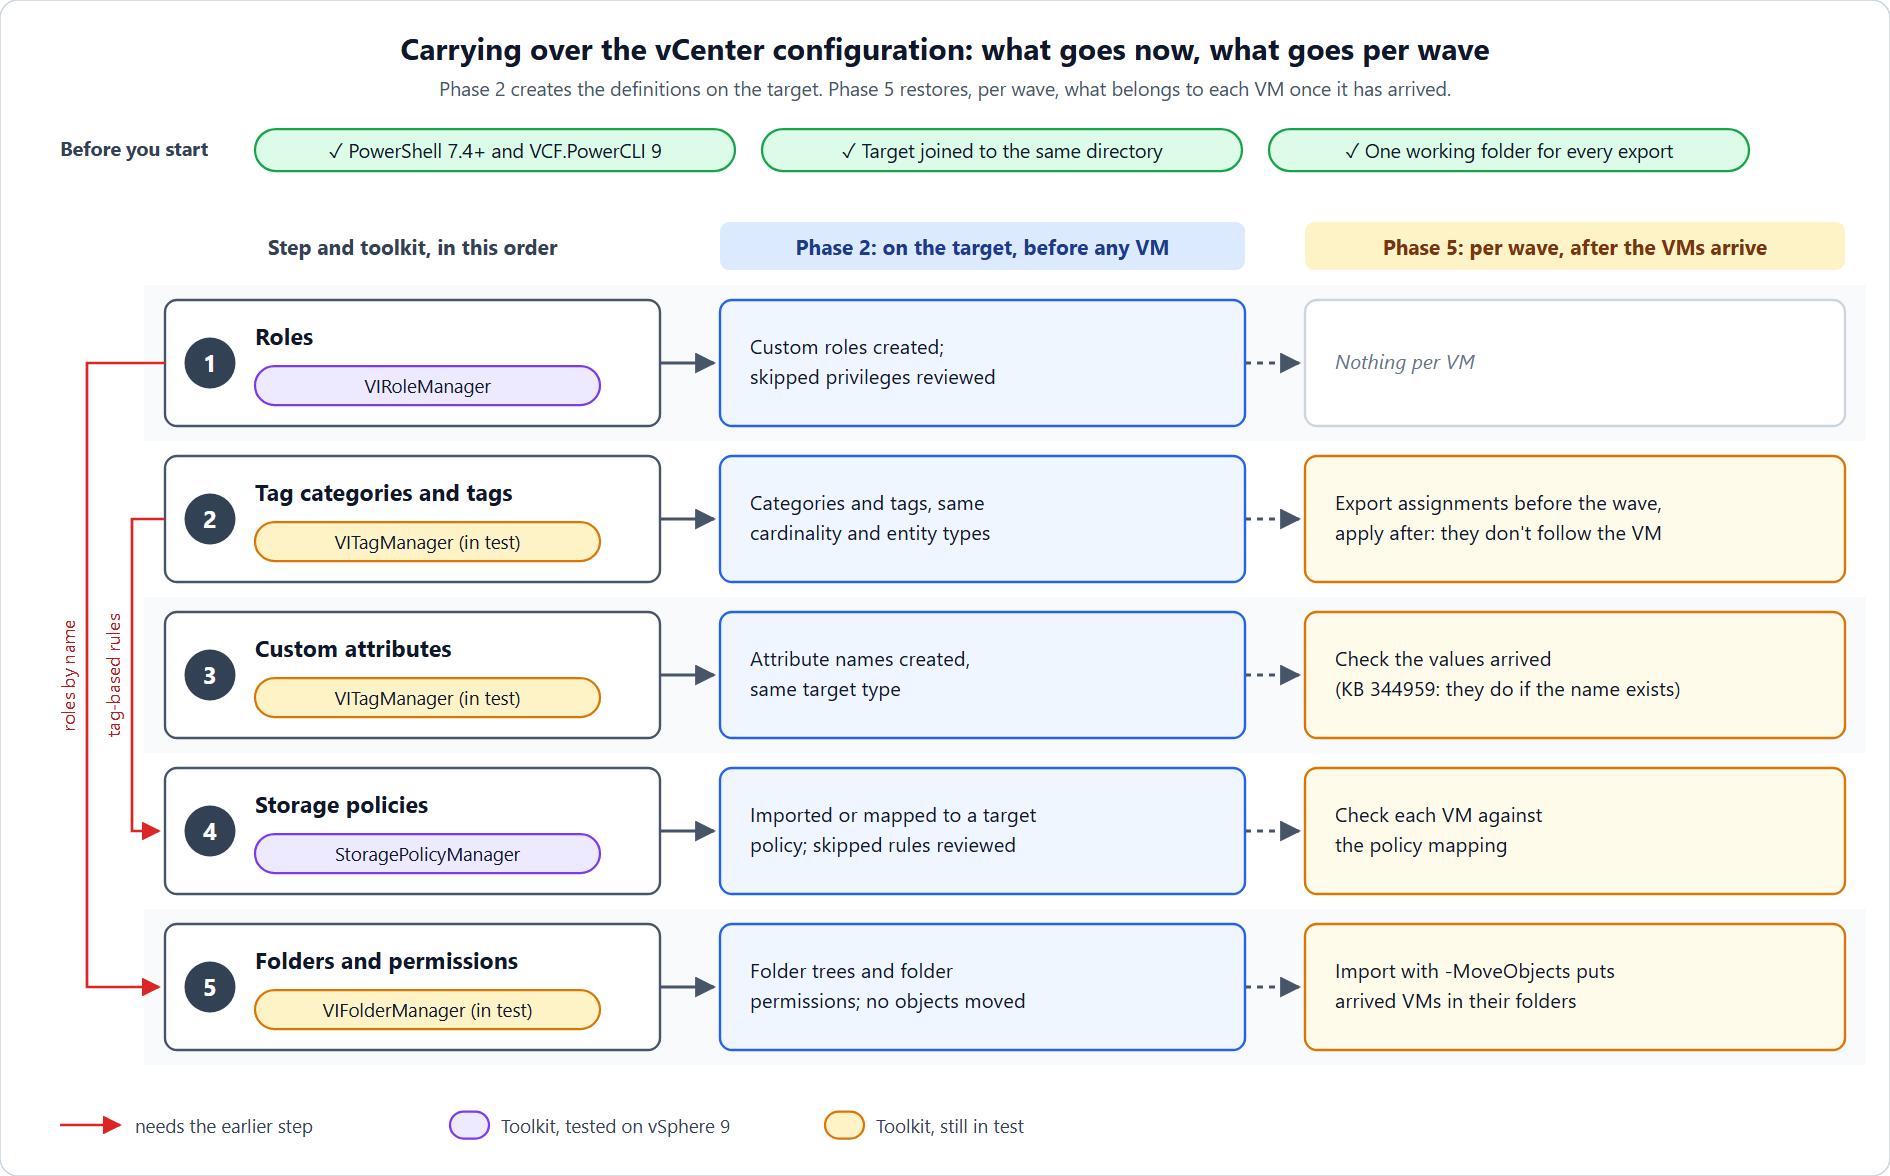
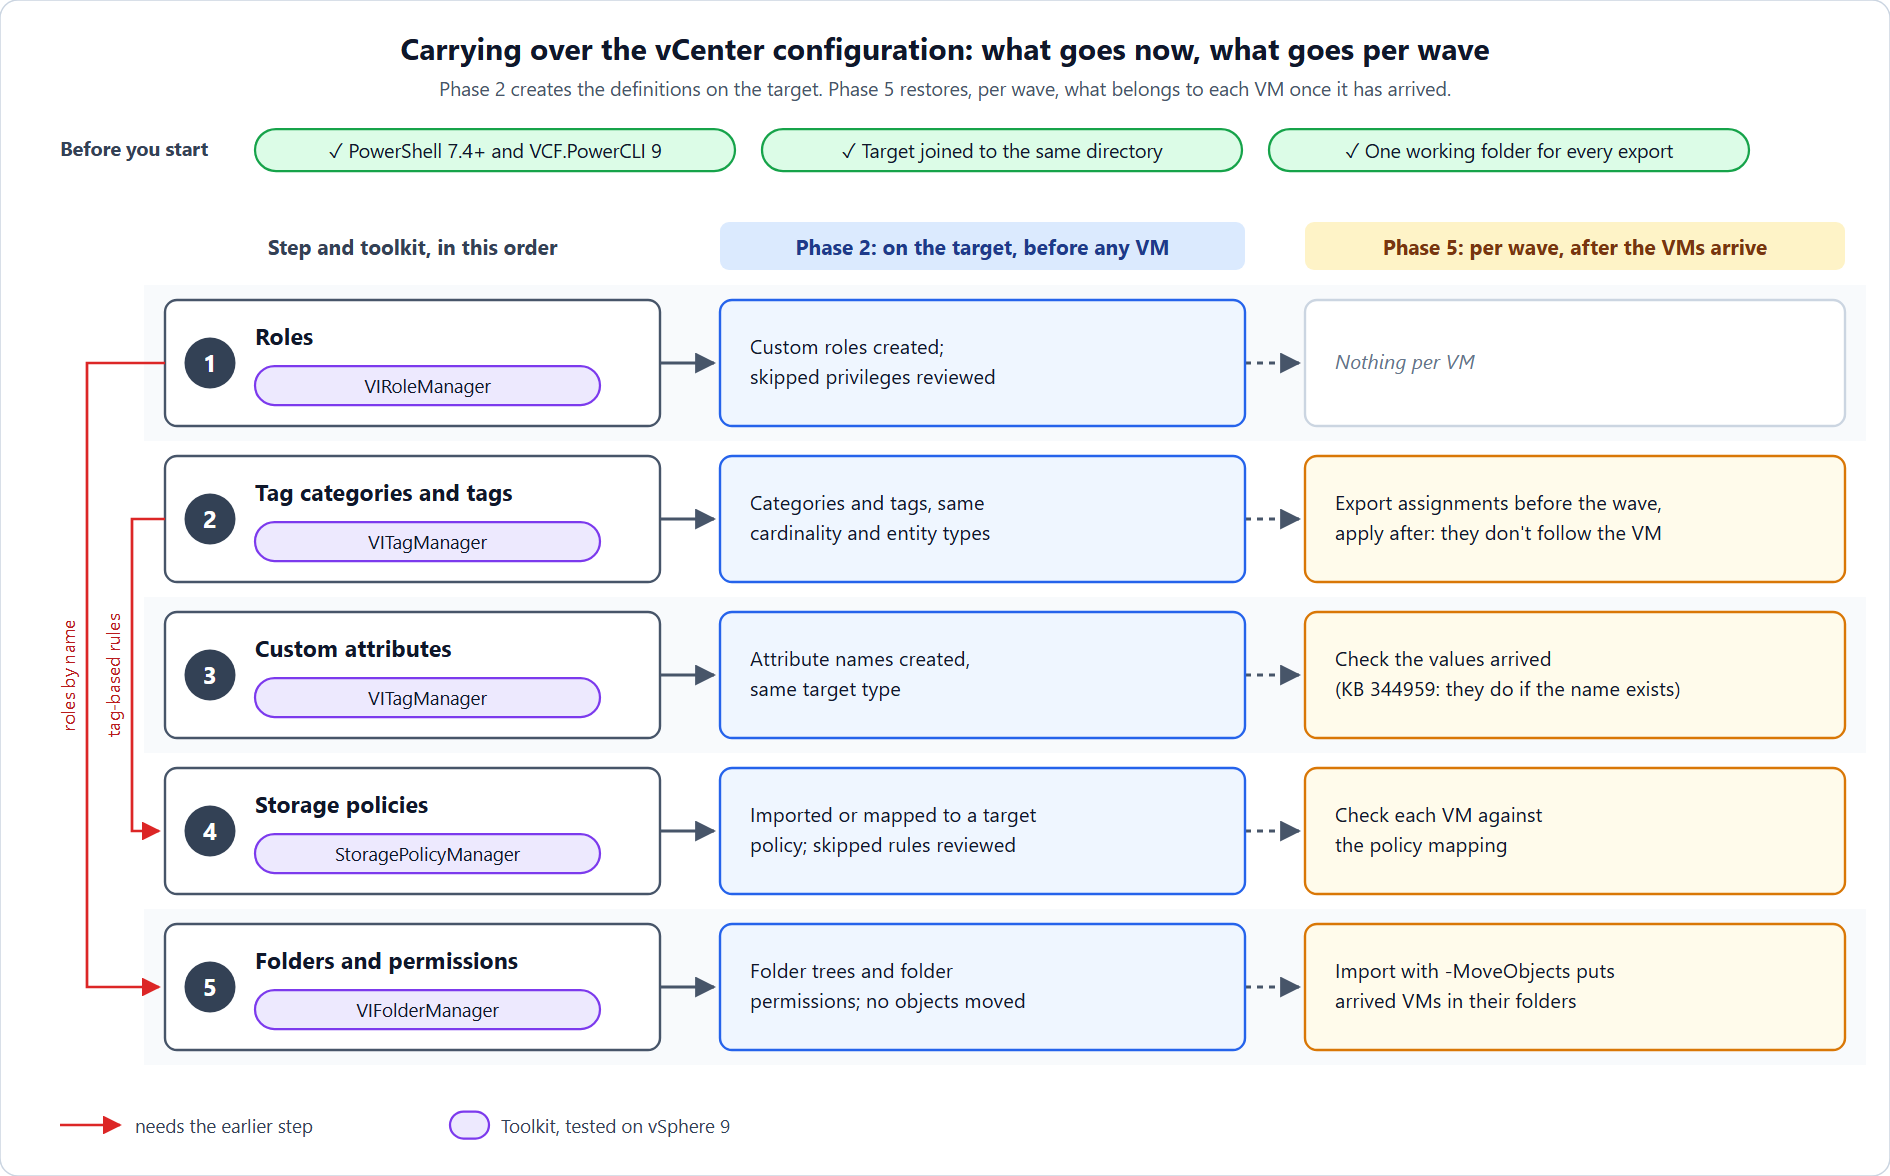
Review #145: toolkits lab-tested, why the toolkits, getting them (#144)
- VITagManager and VIFolderManager lab-tested instead of "still in test"
  in docs/29, docs/30 and both diagrams (legend entries for "still in
  test" and "in development" removed, PNGs re-rendered); VIRoleManager
  and StoragePolicyManager also tested from vCenter 8.0 U3; stale
  "8.x not tested" line fixed
- docs/29 Toolkits: why use them instead of the vSphere Client or a few
  PowerCLI lines, and how to get them onto a jump host (git, ZIP with
  Unblock-File, offline); docs/30 lists VITagManager and links there

diff --git a/docs/29-side-by-side-migration.md b/docs/29-side-by-side-migration.md
@@ -288,7 +288,7 @@ Identity Broker, see
 
 ## The phases
 
-![Side-by-side migration in seven phases. 0, decide the route: the five questions, with baseline exports of the source; check: route chosen and written down. 1, build the target: new VCF or VVF 9 environment, HCX on both sides if chosen; check: target healthy, licensed, reachable. 2, carry over vCenter configuration: roles, tags, storage policies, folders and folder permissions, with VIRoleManager, VITagManager in test, StoragePolicyManager and VIFolderManager in test; check: everything exists on the target with the same names. 3, carry over the networks and the firewall: VDS port groups, NSX segments and NSX distributed firewall policies, with VDSPortGroupManager, nsx-segment-migration and Jeroen Buren's NSX DFW toolkit; check: every source network has a mapped target and the DFW comparison is clean. 4, prove the path: ports 8000, 902 and 443, HCX diagnostics, one test VM there and back; check: test VM runs with network, policy, tags and folder. 5, migrate in waves: HCX Mobility Groups or Import VMs, then VIFolderManager to restore folders, VITagManager for the vSphere tags and attribute values, and the NSX tags on the VMs; check: each wave verified by the application owner. 6, cut over and clean up: gateways to the target, remove network extensions, retire the source; check: nothing left running on the source.](images/side-by-side-migration/phases.png)
+![Side-by-side migration in seven phases. 0, decide the route: the five questions, with baseline exports of the source; check: route chosen and written down. 1, build the target: new VCF or VVF 9 environment, HCX on both sides if chosen; check: target healthy, licensed, reachable. 2, carry over vCenter configuration: roles, tags, storage policies, folders and folder permissions, with VIRoleManager, VITagManager, StoragePolicyManager and VIFolderManager; check: everything exists on the target with the same names. 3, carry over the networks and the firewall: VDS port groups, NSX segments and NSX distributed firewall policies, with VDSPortGroupManager, nsx-segment-migration and Jeroen Buren's NSX DFW toolkit; check: every source network has a mapped target and the DFW comparison is clean. 4, prove the path: ports 8000, 902 and 443, HCX diagnostics, one test VM there and back; check: test VM runs with network, policy, tags and folder. 5, migrate in waves: HCX Mobility Groups or Import VMs, then VIFolderManager to restore folders, VITagManager for the vSphere tags and attribute values, and the NSX tags on the VMs; check: each wave verified by the application owner. 6, cut over and clean up: gateways to the target, remove network extensions, retire the source; check: nothing left running on the source.](images/side-by-side-migration/phases.png)
 
 Each phase below has three parts: what it's for, what you do, and the
 check that closes it. Don't start a phase before the previous check
@@ -330,7 +330,7 @@ it:
 2. **Tag categories and tags.** Tag-based storage policy rules refer to
    them, and the tag assignments you re-apply in phase 5 need them
    ([KB 344959](https://knowledge.broadcom.com/external/article/344959)).
-   VITagManager carries them over (still in test, so dry run first).
+   VITagManager carries them over (lab-tested; dry run first).
 3. **Custom attributes.** Same KB, same reason; VITagManager takes the
    attribute names along in the same run.
 4. **Storage policies** (StoragePolicyManager). Tag-based rules are
@@ -457,6 +457,61 @@ PowerShell toolkits for the configuration work in phases 0, 2, 3 and 5.
 They export to files you can read and keep, and import into the target
 vCenter or NSX Manager.
 
+**Why the toolkits, and not the vSphere Client or a few PowerCLI lines.**
+You can rebuild all of this by hand. The toolkits exist because a
+side-by-side migration has traps that a quick copy misses, and because
+you want proof of what you moved:
+
+- **A record of the source.** Every export is a file you can read, keep
+  and compare. It's your baseline in phase 0, and the record of what the
+  old environment looked like after it's gone.
+- **See before you change.** Where a toolkit has a dry run (`-DryRun`, or
+  `-WhatIf` for the NSX segments), it lists what it would create, move or
+  set, and changes nothing.
+- **Safe to run again.** What already exists on the target is skipped or
+  reused, so after a partial run or a fix you just run it again. The
+  vCenter toolkits don't delete anything on an import.
+- **Version differences reported, not hidden.** Privileges that a newer
+  vCenter no longer has are listed and skipped (VIRoleManager: four of
+  them from 8.0 U3 to 9.1.1); capabilities and tags that a storage policy
+  needs but the target lacks are reported (StoragePolicyManager); uplink
+  names that differ on a VCF-built switch are mapped (VDSPortGroupManager
+  `-UplinkMap`).
+- **What vCenter manages itself stays out.** System roles, the folders
+  that vCenter, the Supervisor and NSX create (`vCLS`, `Namespaces`,
+  `NSX Managed Folders`, `Virtual Private Clouds`), and the custom
+  attributes that vCenter and other products keep for themselves are
+  skipped.
+- **Per wave, not just once.** Tag assignments and folder placement don't
+  travel with a VM. VITagManager and VIFolderManager restore them after
+  each wave; VMs that haven't arrived yet are listed and skipped, so the
+  same export serves every wave.
+- **Tested on this route.** The vCenter toolkits were run in a lab from a
+  vCenter 8.0 U3 source and from VCF 9.0.2 into VCF 9.1.1 (2026-11-16),
+  and what that showed is written down on the pages that use them.
+
+**Getting them.** Each toolkit is a public GitHub repository, linked in
+the table below. Put them on the workstation or jump host you run the
+migration from:
+
+- **With git:** `git clone https://github.com/pauldiee/<toolkit>.git`, for
+  example `git clone https://github.com/pauldiee/VITagManager.git`.
+  `git pull` in the folder fetches a newer version later.
+- **Without git:** on the repository page, **Code** > **Download ZIP**,
+  and extract it. Windows marks files downloaded from the internet, and
+  under the `RemoteSigned` execution policy PowerShell won't run such
+  unsigned scripts; unblock the folder once with
+  `Get-ChildItem -Recurse | Unblock-File`
+  ([about_Execution_Policies](https://learn.microsoft.com/powershell/module/microsoft.powershell.core/about/about_execution_policies)).
+- **Jump host without internet:** download on another machine and copy
+  the folders across, together with PowerShell 7 and VCF.PowerCLI
+  ([planning guide, Jump Host PowerShell](https://vcf-planning.hollebollevsan.nl/docs/42-jump-host-powershell/)).
+
+Start each toolkit from its own folder in `pwsh`. Its README lists the
+parameters; the vCenter toolkits print their version when they start. Use one
+working folder for all exports
+([docs/30, Before you start](30-carry-over-vcenter-configuration.md#before-you-start)).
+
 **Who made them.** VIRoleManager, VITagManager, StoragePolicyManager,
 VIFolderManager, VDSPortGroupManager and nsx-segment-migration are
 written by Paul van Dieen, the author of this guide
@@ -475,18 +530,18 @@ toolkit is written by Jeroen Buren
 
 | Toolkit | Moves | Status |
 | --- | --- | --- |
-| [VIRoleManager](https://github.com/pauldiee/VIRoleManager) | vCenter roles and their privileges | Tested against vSphere 9 |
-| [VITagManager](https://github.com/pauldiee/VITagManager) | Tag categories and tags, custom attributes, and per wave the tag assignments and attribute values on the VMs | **Still in test.** Lab-tested from vCenter 8.0 U3 and VCF 9.0.2 into 9.1.1. Run with `-DryRun` first |
-| [StoragePolicyManager](https://github.com/pauldiee/StoragePolicyManager) | VM storage policies (SPBM), incl. tag-based rules | Tested against vSphere 9 |
-| [VIFolderManager](https://github.com/pauldiee/VIFolderManager) | Folder trees (VM, host, datastore, network), which objects sit where, and permissions on folders | **Still in test.** Lab-tested on VCF 9.1.1 and 9.0.2. Run with `-DryRun` first |
+| [VIRoleManager](https://github.com/pauldiee/VIRoleManager) | vCenter roles and their privileges | Tested against vSphere 9, and from vCenter 8.0 U3 into 9.1.1 (lab) |
+| [VITagManager](https://github.com/pauldiee/VITagManager) | Tag categories and tags, custom attributes, and per wave the tag assignments and attribute values on the VMs | Lab-tested from vCenter 8.0 U3 and VCF 9.0.2 into 9.1.1. Run with `-DryRun` first |
+| [StoragePolicyManager](https://github.com/pauldiee/StoragePolicyManager) | VM storage policies (SPBM), incl. tag-based rules | Tested against vSphere 9, and from vCenter 8.0 U3 into 9.1.1 (lab) |
+| [VIFolderManager](https://github.com/pauldiee/VIFolderManager) | Folder trees (VM, host, datastore, network), which objects sit where, and permissions on folders | Lab-tested on VCF 9.1.1 and 9.0.2, and from vCenter 8.0 U3 into 9.1.1. Run with `-DryRun` first |
 | [VDSPortGroupManager](https://github.com/pauldiee/VDSPortGroupManager) | VDS port groups, also onto a switch with other uplink names (`-UplinkMap`, 1.2.0+) | Lab-tested on vCenter 9.1.1 and 9.0.2 |
 | [nsx-segment-migration](https://github.com/pauldiee/nsx-segment-migration) | NSX segments, segment profiles and their bindings | NSX 4.x and 9.x |
 | [NSX DFW migration toolkit](https://github.com/jeroenburen/Repository/tree/main/scripts/networking/nsx-migration-toolkit), by Jeroen Buren | NSX distributed firewall: IP sets, services and service groups, security groups, policies and rules, VM tags. Renames NSX-V-era IDs to their names, rolls an import back, and compares source and target | Written for an NSX 4 to NSX 9 migration; no Gateway Firewall. See his posts: [part 1](https://configmgr.nl/powershell/migrating-nsx-distributed-firewall-policies-the-right-way-a-powershell-toolkit/), [part 2](https://configmgr.nl/powershell/migrating-nsx-distributed-firewall-policies-part-2/), [part 3](https://configmgr.nl/powershell/migrating-nsx-distributed-firewall-policies-part-3/) |
 
 The vCenter toolkits have been tested with vSphere 9 vCenters on both
-sides. Exporting from an **older source vCenter** (7.x or 8.x) hasn't been
-tested yet. Check the export file before you import it, and import with a
-dry run where the toolkit has one.
+sides, and from a **vCenter 8.0 U3 source** into 9.1.1 (lab, 2026-11-16).
+A **7.x source** hasn't been tested. Check the export file before you
+import it, and import with a dry run where the toolkit has one.
 
 ---
 

diff --git a/docs/30-carry-over-vcenter-configuration.md b/docs/30-carry-over-vcenter-configuration.md
@@ -51,9 +51,12 @@ toolkits' own documentation and code, and PowerCLI 13.5.1 (VCF.PowerCLI
 - VCF.PowerCLI 9.0 or later:
   `Install-Module -Name VCF.PowerCLI -Scope CurrentUser`.
 - The toolkits: [VIRoleManager](https://github.com/pauldiee/VIRoleManager),
+  [VITagManager](https://github.com/pauldiee/VITagManager),
   [StoragePolicyManager](https://github.com/pauldiee/StoragePolicyManager)
   and [VIFolderManager](https://github.com/pauldiee/VIFolderManager).
-  Download each as a zip or clone it.
+  Download each as a zip or clone it; how, and what to do on a jump host
+  without internet:
+  [docs/29, Getting them](29-side-by-side-migration.md#toolkits).
 
 **Accounts.** An administrator on both vCenters. The toolkits ask for
 credentials once and save them as `<vCenter>.cred` next to the script. On
@@ -87,8 +90,8 @@ StoragePolicyManager and VIFolderManager are written by Paul van Dieen, the auth
 vCenters on both sides, and from a **vCenter 8.0 U3 source** into a
 vCenter 9.1.1 target (lab, 2026-11-16, with a test set per toolkit: roles,
 tag and vSAN policies, folders with permissions, tag categories and
-custom attributes). VIFolderManager and VITagManager are still in test,
-and the vCenter 8 test had no hosts, so no VMs were moved into folders.
+custom attributes). The vCenter 8 test had no hosts, so no VMs were
+moved into folders there.
 VITagManager's VM part (assignments and values per wave, VMs with the
 same name) was tested from a VCF 9.0.2 source into 9.1.1 (lab,
 2026-11-16). A **7.x source** hasn't been tested. Open each export file
@@ -113,12 +116,12 @@ toolkit has a dry run, use it first.
 
 ## The order, and why
 
-![Carrying over the vCenter configuration in five steps. Before you start: PowerShell 7.4 or later with VCF.PowerCLI 9, the target joined to the same directory, one working folder. Step 1, roles with VIRoleManager: in phase 2 custom roles created and skipped privileges reviewed; nothing per VM. Step 2, tag categories and tags with VITagManager, still in test: in phase 2 categories and tags with the same cardinality and entity types; in phase 5 export assignments before each wave and apply them after, because they don't follow the VM. Step 3, custom attributes, same toolkit: in phase 2 attribute names with the same target type; in phase 5 check that the values arrived. Step 4, storage policies with StoragePolicyManager: in phase 2 imported or mapped, skipped rules reviewed; in phase 5 check each VM against the policy mapping. Step 5, folders and permissions with VIFolderManager, still in test: in phase 2 folder trees and folder permissions without moving objects; in phase 5 an import with -MoveObjects puts arrived VMs in their folders. Folder permissions need the roles from step 1; tag-based storage policy rules need the tags from step 2.](images/vcenter-config/order.png)
+![Carrying over the vCenter configuration in five steps. Before you start: PowerShell 7.4 or later with VCF.PowerCLI 9, the target joined to the same directory, one working folder. Step 1, roles with VIRoleManager: in phase 2 custom roles created and skipped privileges reviewed; nothing per VM. Step 2, tag categories and tags with VITagManager: in phase 2 categories and tags with the same cardinality and entity types; in phase 5 export assignments before each wave and apply them after, because they don't follow the VM. Step 3, custom attributes, same toolkit: in phase 2 attribute names with the same target type; in phase 5 check that the values arrived. Step 4, storage policies with StoragePolicyManager: in phase 2 imported or mapped, skipped rules reviewed; in phase 5 check each VM against the policy mapping. Step 5, folders and permissions with VIFolderManager: in phase 2 folder trees and folder permissions without moving objects; in phase 5 an import with -MoveObjects puts arrived VMs in their folders. Folder permissions need the roles from step 1; tag-based storage policy rules need the tags from step 2.](images/vcenter-config/order.png)
 
 | Step | What | Tool | Needs first |
 | --- | --- | --- | --- |
 | 1 | Roles | VIRoleManager | – |
-| 2 | Tag categories and tags | VITagManager, still in test | – |
+| 2 | Tag categories and tags | VITagManager | – |
 | 3 | Custom attributes | VITagManager, same run | – |
 | 4 | Storage policies | StoragePolicyManager | Step 2, for tag-based rules |
 | 5 | Folders and permissions | VIFolderManager, PowerCLI | Step 1 and the target's directory |
@@ -215,8 +218,8 @@ privilege whether that's acceptable.
 
 ## Step 2: tag categories and tags
 
-**Toolkit:** [VITagManager](https://github.com/pauldiee/VITagManager) (still in test, so the dry run is not
-optional). It handles step 3 as well. Without it: PowerCLI, at the end of
+**Toolkit:** [VITagManager](https://github.com/pauldiee/VITagManager) (lab-tested; run the dry run
+first anyway). It handles step 3 as well. Without it: PowerCLI, at the end of
 this step.
 
 There are two parts to tags, and they move at different times:
@@ -426,8 +429,8 @@ migrated VM against it.
 
 ## Step 5: folders and permissions
 
-**Toolkit:** [VIFolderManager](https://github.com/pauldiee/VIFolderManager) (still in test, so the dry run is not
-optional). Other permissions: PowerCLI.
+**Toolkit:** [VIFolderManager](https://github.com/pauldiee/VIFolderManager) (lab-tested; run the dry run
+first anyway). Other permissions: PowerCLI.
 
 **Folders, without moving anything yet.** Export all four folder types
 from the source:

diff --git a/CHANGELOG.md b/CHANGELOG.md
@@ -9,9 +9,19 @@
   the toolkit table and the credits name it; `docs/32` exports and
   re-applies the tags of a wave with it (`-VMName` from the wave list).
   Lab-tested from vCenter 8.0.3 and VCF 9.0.2 into 9.1.1, 2026-11-16.
-- Diagrams `phases` and `order`: the tags chips are now "VITagManager
-  (in test)", the "Toolkit in development" legend entry is gone, PNGs
-  re-rendered.
+- Review (Paul): VITagManager and VIFolderManager are now **lab-tested**
+  instead of "still in test" in `docs/29`, `docs/30` and both diagrams;
+  the toolkit table also says that VIRoleManager and StoragePolicyManager
+  were tested from vCenter 8.0 U3, and the stale "8.x hasn't been tested"
+  line is fixed (7.x still hasn't).
+- `docs/29` Toolkits: new **why the toolkits** (a record of the source,
+  dry run, safe re-runs, version differences reported, system objects
+  left out, per wave, tested on this route) and **getting them** (git
+  clone, ZIP with `Unblock-File`, offline jump host); `docs/30` Before
+  you start lists VITagManager and links there.
+- Diagrams `phases` and `order`: every toolkit chip is now "tested", the
+  "Toolkit in development" and "still in test" legend entries are gone,
+  PNGs re-rendered.
 
 ## v2.9.2 – 2026-11-16
 - `docs/33`, `docs/34` (#142, Paul): ESX to IX on 31031 and 32032, as the
